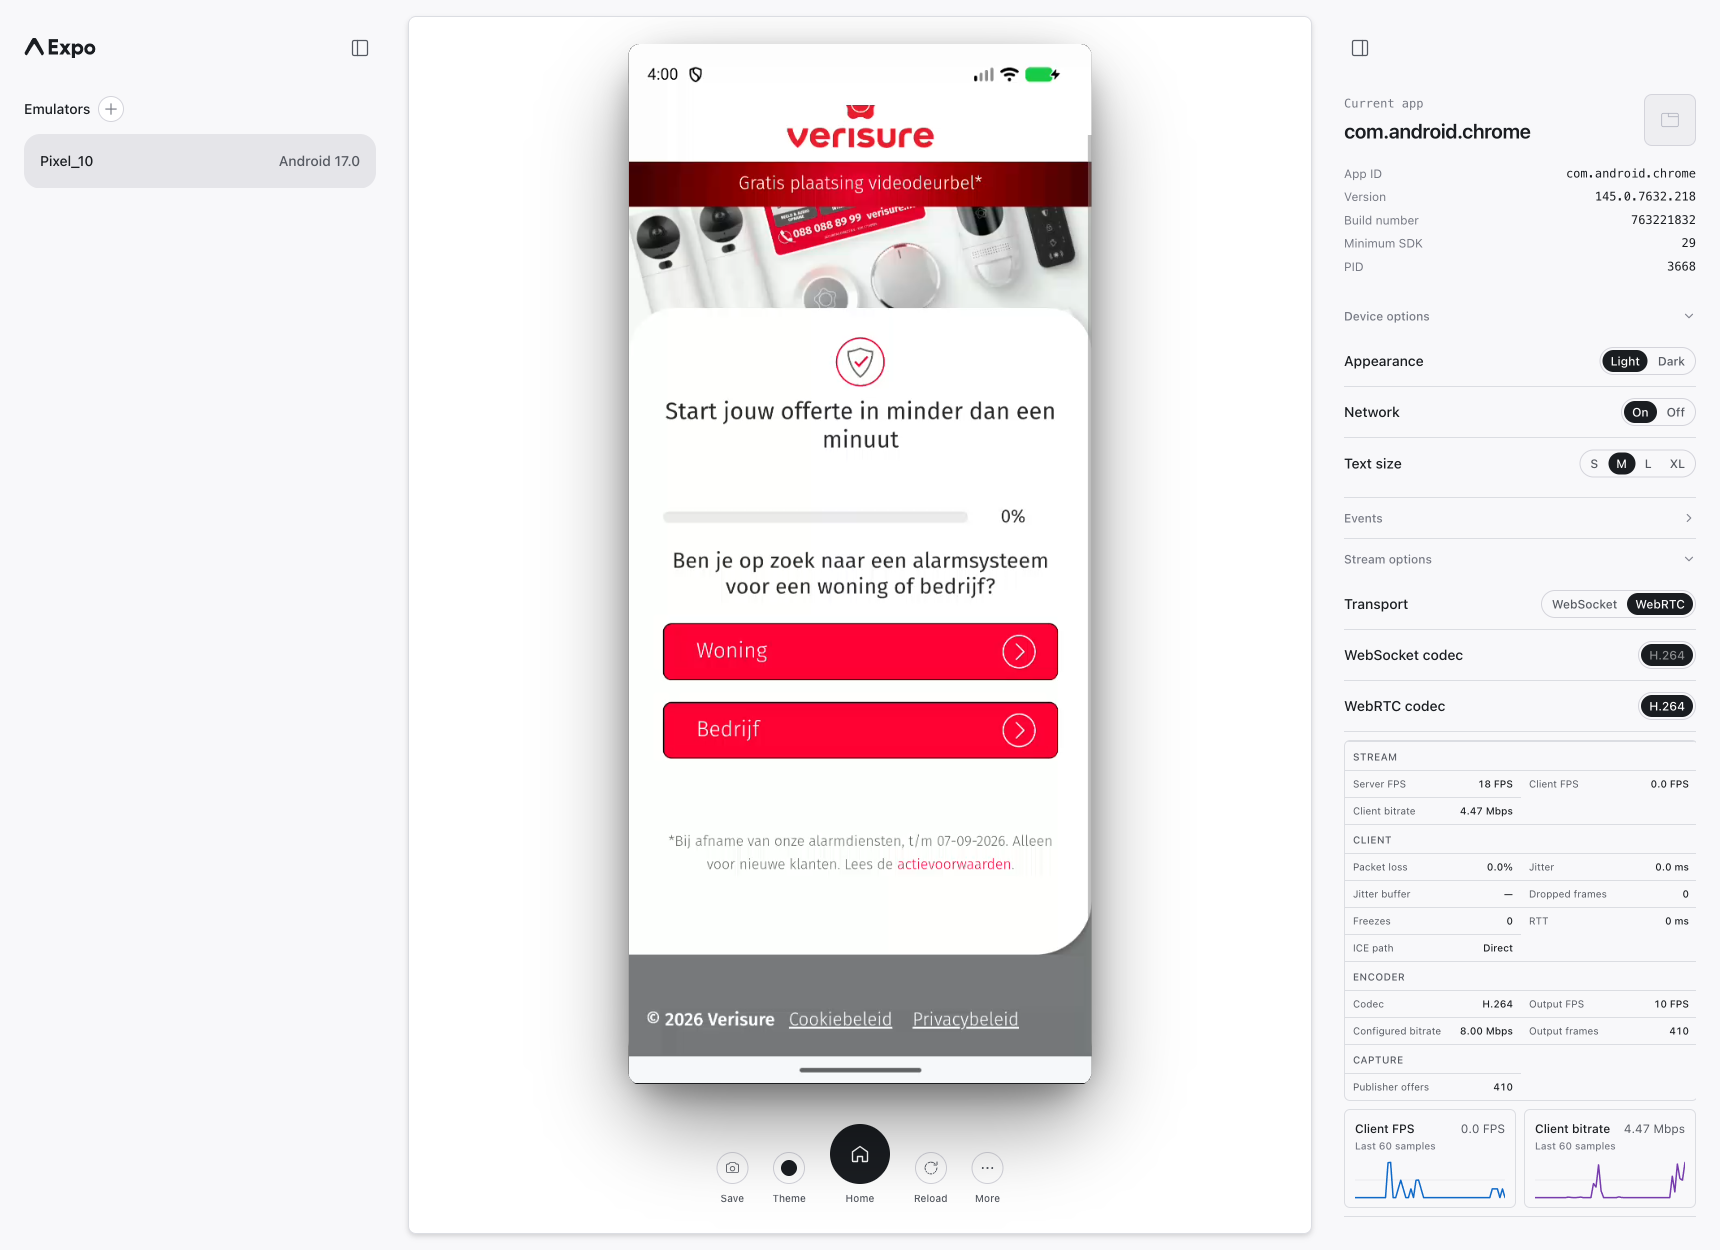
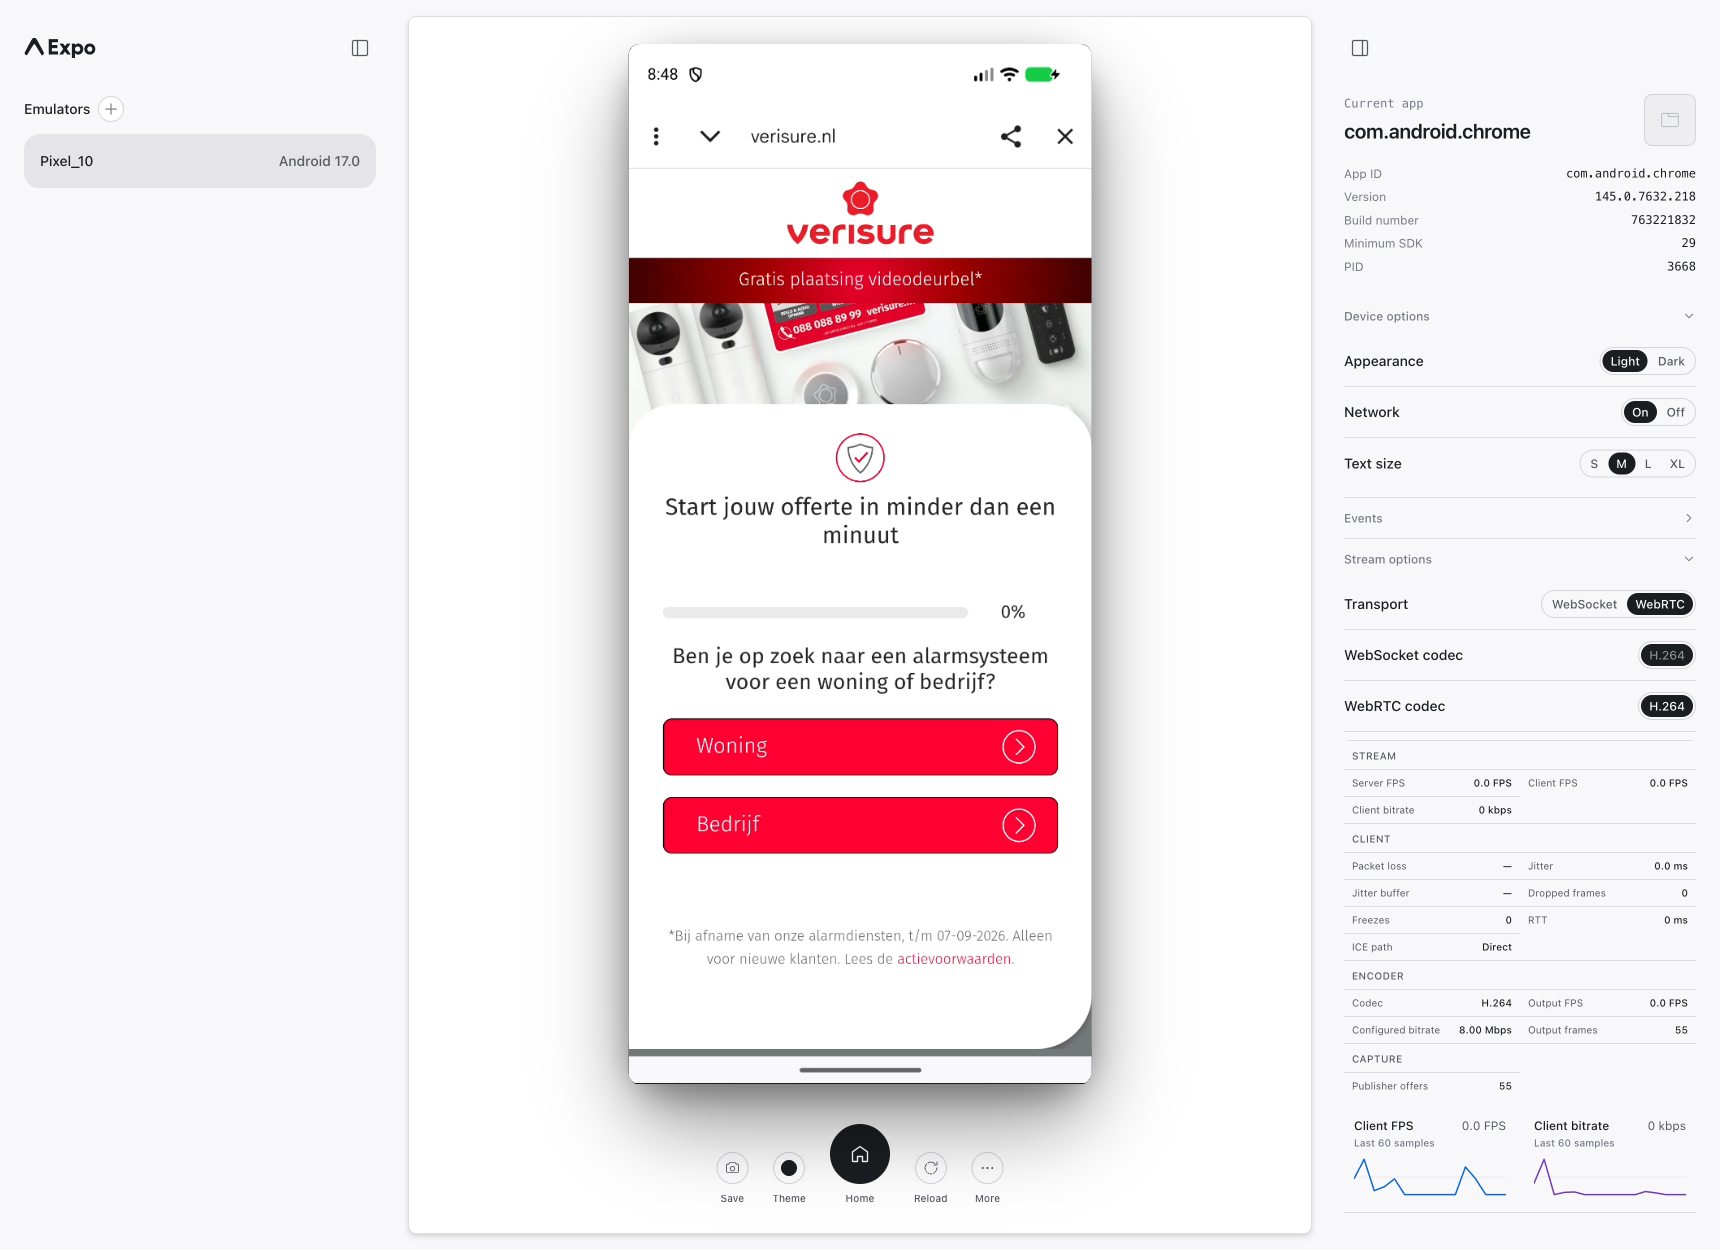
Remove WebRTC statistics borders

Changed region(s): [[0.339, 0.0624, 0.6471, 0.7176], [0.7703, 0.5928, 0.986, 0.9672], [0.339, 0.7176, 0.6471, 0.8424]]

diff --git a/packages/@expo/hub-components/src/dashboard/StreamOptionsSection.tsx b/packages/@expo/hub-components/src/dashboard/StreamOptionsSection.tsx
@@ -407,7 +407,6 @@ function StreamStatistics({
         style={{
           width: '100%',
           overflow: 'hidden',
-          border: `1px solid ${border.secondary}`,
           borderRadius: radius.md,
           backgroundColor: bg.subtle,
         }}
@@ -536,6 +535,7 @@ function StreamStatistics({
             description="Last 60 samples"
             series={clientFpsSeries}
             maxValue={maxChartValue(clientFpsSeries)}
+            bordered={false}
           />
           <MetricChart
             title="Client bitrate"
@@ -543,6 +543,7 @@ function StreamStatistics({
             description="Last 60 samples"
             series={clientBitrateSeries}
             maxValue={maxChartValue(clientBitrateSeries)}
+            bordered={false}
           />
         </div>
       )}

diff --git a/packages/@expo/hub-components/src/dashboard/MetricChart.tsx b/packages/@expo/hub-components/src/dashboard/MetricChart.tsx
@@ -42,19 +42,21 @@ export function MetricChart({
   description,
   series,
   maxValue,
+  bordered = true,
 }: {
   title: string;
   value: string;
   description?: string;
   series: readonly MetricChartSeries[];
   maxValue: number;
+  bordered?: boolean;
 }) {
   return (
     <div
       style={{
         minWidth: 0,
         padding: '9px 10px 8px',
-        border: `1px solid ${border.secondary}`,
+        ...(bordered ? { border: `1px solid ${border.secondary}` } : {}),
         borderRadius: radius.md,
         backgroundColor: bg.subtle,
       }}
